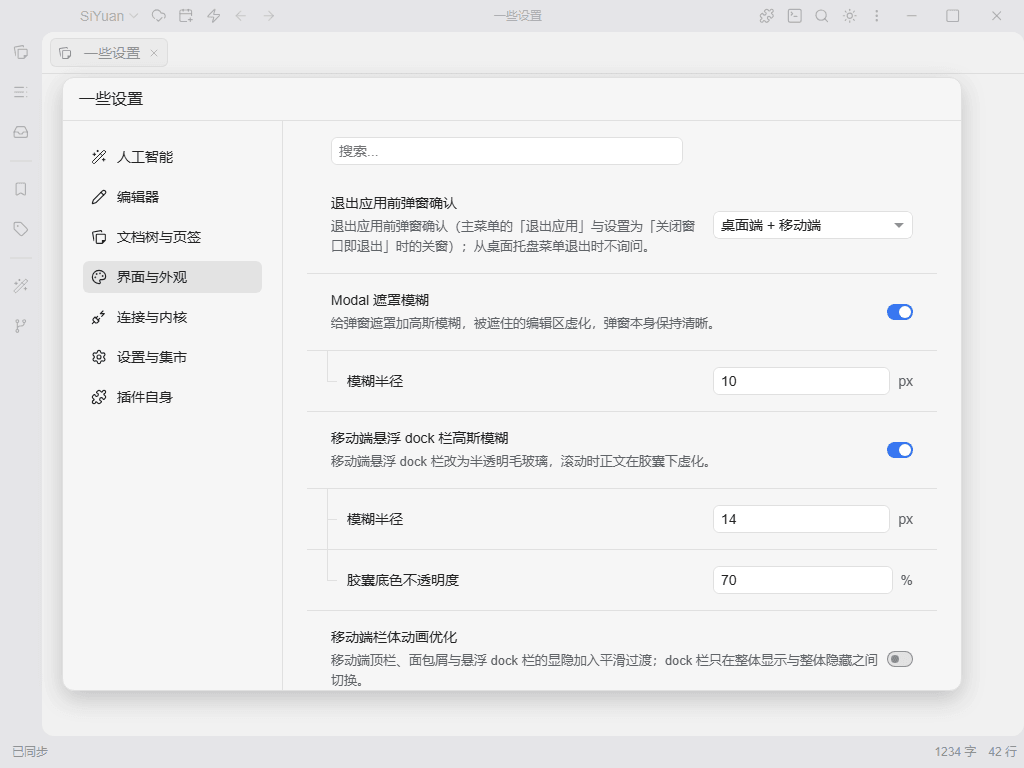
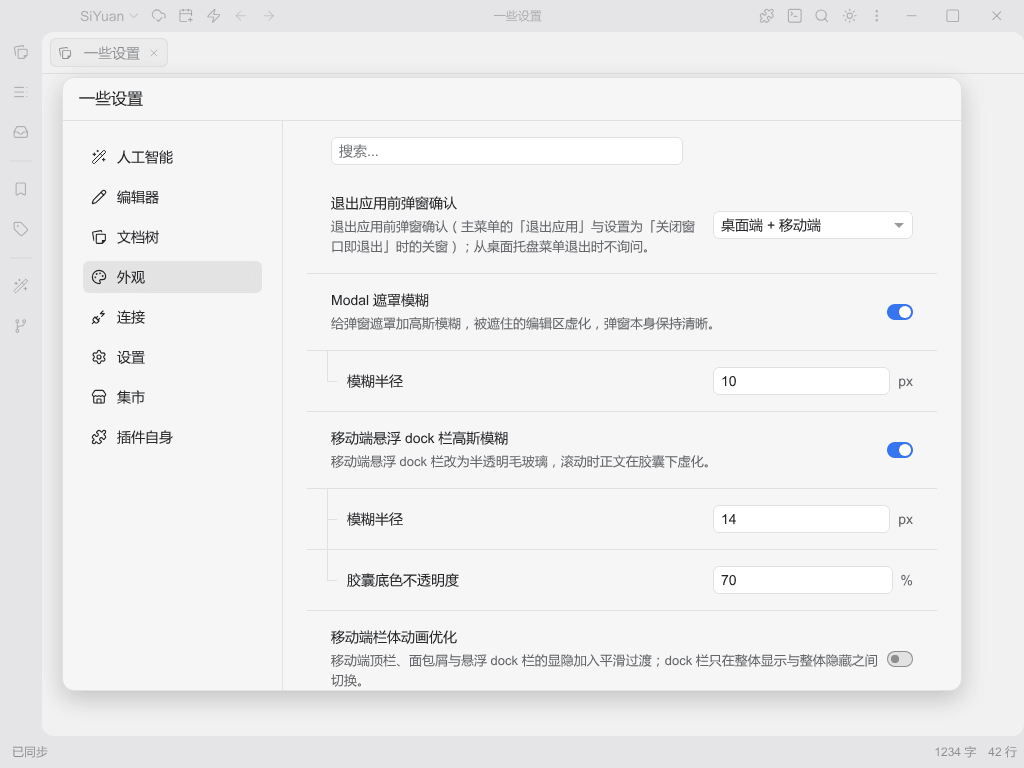
docs(preview): redraw the preview for the eight category tabs (#128)
The settings panel now has eight tabs (marketplace split out of settings), so
rebuild the preview page to match it.

- Rename the preview tabs to the new short labels and add the marketplace tab
  with the built-in `iconBazaar` symbol.
- Update the search group title and the tab-count comments to match.
- Re-render `preview.png` with the Windows font stack (Arial plus Microsoft
  YaHei, hinting off so glyph advances stay fractional): without it the text
  falls back to DejaVu Sans and Noto Sans CJK and wraps at different points.

diff --git a/assets/preview.html b/assets/preview.html
@@ -643,7 +643,7 @@ body {
     z-index: 2;
     flex-shrink: 0;
     background-color: var(--b3-theme-surface);
-    /* 页签按原生功能区划分后有七个，一屏放不下：整条可以左右滑动，
+    /* 页签按原生功能区划分后有八个，一屏放不下：整条可以左右滑动，
        每一项按内容给宽度（flex: 0 0 auto），不做等分也不换行。
        刻意不加 scroll-snap：吸附会在每一项上顿一下，手指的惯性被打断，滑起来是「一格一格」的黏感；
        页签本来就短，靠惯性滑到看得见的位置比被吸附到整项更顺手。 */
@@ -1270,6 +1270,9 @@ body {
         <symbol id="iconPlugZap" viewBox="0 0 24 24" fill="none" stroke="currentColor" stroke-width="1.7" stroke-linecap="round" stroke-linejoin="round">
             <path d="M6.3 20.3a2.4 2.4 0 0 0 3.4 0L12 18l-6-6-2.3 2.3a2.4 2.4 0 0 0 0 3.4Z"/><path d="m2 22 3-3"/><path d="M7.5 13.5 10 11"/><path d="M10.5 16.5 13 14"/><path d="m18 3-4 4h6l-4 4"/>
           </symbol>
+        <symbol id="iconBazaar" viewBox="0 0 24 24" fill="none" stroke="currentColor" stroke-width="1.7" stroke-linecap="round" stroke-linejoin="round">
+            <path d="M15 21v-5a1 1 0 0 0-1-1h-4a1 1 0 0 0-1 1v5"/><path d="M17.774 10.31a1.12 1.12 0 0 0-1.549 0 2.5 2.5 0 0 1-3.451 0 1.12 1.12 0 0 0-1.548 0 2.5 2.5 0 0 1-3.452 0 1.12 1.12 0 0 0-1.549 0 2.5 2.5 0 0 1-3.77-3.248l2.889-4.184A2 2 0 0 1 7 2h10a2 2 0 0 1 1.653.873l2.895 4.192a2.5 2.5 0 0 1-3.774 3.244"/><path d="M4 10.95V19a2 2 0 0 0 2 2h12a2 2 0 0 0 2-2v-8.05"/>
+          </symbol>
         <symbol id="iconSettings" viewBox="0 0 24 24" fill="none" stroke="currentColor" stroke-width="1.7" stroke-linecap="round" stroke-linejoin="round">
             <path d="M9.671 4.136a2.34 2.34 0 0 1 4.659 0 2.34 2.34 0 0 0 3.319 1.915 2.34 2.34 0 0 1 2.33 4.033 2.34 2.34 0 0 0 0 3.831 2.34 2.34 0 0 1-2.33 4.033 2.34 2.34 0 0 0-3.319 1.915 2.34 2.34 0 0 1-4.659 0 2.34 2.34 0 0 0-3.32-1.915 2.34 2.34 0 0 1-2.33-4.033 2.34 2.34 0 0 0 0-3.831A2.34 2.34 0 0 1 6.35 6.051a2.34 2.34 0 0 0 3.319-1.915"/><circle cx="12" cy="12" r="3"/>
           </symbol>
@@ -1354,25 +1357,31 @@ body {
                             <svg class="b3-list-item__graphic">
                                 <use xlink:href="#iconFiles"></use>
                             </svg>
-                            <span class="b3-list-item__text">文档树与页签</span>
+                            <span class="b3-list-item__text">文档树</span>
                         </li>
                         <li class="b3-list-item some-settings-panel__tab b3-list-item--focus item--focus" data-ss-tab="appearance" role="tab" tabindex="0" aria-selected="true">
                             <svg class="b3-list-item__graphic">
                                 <use xlink:href="#iconTheme"></use>
                             </svg>
-                            <span class="b3-list-item__text">界面与外观</span>
+                            <span class="b3-list-item__text">外观</span>
                         </li>
                         <li class="b3-list-item some-settings-panel__tab" data-ss-tab="connection" role="tab" tabindex="0" aria-selected="false">
                             <svg class="b3-list-item__graphic">
                                 <use xlink:href="#iconPlugZap"></use>
                             </svg>
-                            <span class="b3-list-item__text">连接与内核</span>
+                            <span class="b3-list-item__text">连接</span>
                         </li>
                         <li class="b3-list-item some-settings-panel__tab" data-ss-tab="settings" role="tab" tabindex="0" aria-selected="false">
                             <svg class="b3-list-item__graphic">
                                 <use xlink:href="#iconSettings"></use>
                             </svg>
-                            <span class="b3-list-item__text">设置与集市</span>
+                            <span class="b3-list-item__text">设置</span>
+                        </li>
+                        <li class="b3-list-item some-settings-panel__tab" data-ss-tab="bazaar" role="tab" tabindex="0" aria-selected="false">
+                            <svg class="b3-list-item__graphic">
+                                <use xlink:href="#iconBazaar"></use>
+                            </svg>
+                            <span class="b3-list-item__text">集市</span>
                         </li>
                         <li class="b3-list-item some-settings-panel__tab" data-ss-tab="plugin" role="tab" tabindex="0" aria-selected="false">
                             <svg class="b3-list-item__graphic">
@@ -1396,7 +1405,7 @@ body {
                     <div class="some-settings-panel__panes">
                         <div class="some-settings-panel__view" data-ss-tab-panel="appearance" role="tabpanel">
                             <div class="config-items">
-                                <div class="some-settings-panel__group fn__none" data-ss-search-group="appearance">界面与外观</div>
+                                <div class="some-settings-panel__group fn__none" data-ss-search-group="appearance">外观</div>
                                 <div class="fn__flex b3-label config-item some-settings-panel__sub" data-ss-feature="exit-confirm" data-ss-row="exit-confirm::scope">
                                     <div class="fn__flex-1 config-item__main">退出应用前弹窗确认
                                         <div class="b3-label__text">退出应用前弹窗确认（主菜单的「退出应用」与设置为「关闭窗口即退出」时的关窗）；从桌面托盘菜单退出时不询问。</div>

diff --git a/src/core/setting-dialog.ts b/src/core/setting-dialog.ts
@@ -1064,7 +1064,7 @@ export class SettingsPanel {
     /**
      * 把页签滚到看得见的位置：恢复上次的页签时，选中的那一项往往还在屏幕外。
      *
-     * 移动端的页签栏是一整条横向滚动区（七个分类一屏放不下），一打开总是停在最左边；
+     * 移动端的页签栏是一整条横向滚动区（八个分类一屏放不下），一打开总是停在最左边；
      * 桌面端左侧列表也会纵向滚。类名换到第 4、5 个页签上，用户看到的却还是开头那几个，
      * 于是「记住了页签」看起来等于没记住 —— 所以切页之后要把它滚出来。
      *

diff --git a/src/core/ui.ts b/src/core/ui.ts
@@ -534,7 +534,7 @@ export const PANEL_CSS = `
     z-index: 2;
     flex-shrink: 0;
     background-color: var(--b3-theme-surface);
-    /* 页签按原生功能区划分后有七个，一屏放不下：整条可以左右滑动，
+    /* 页签按原生功能区划分后有八个，一屏放不下：整条可以左右滑动，
        每一项按内容给宽度（flex: 0 0 auto），不做等分也不换行。
        刻意不加 scroll-snap：吸附会在每一项上顿一下，手指的惯性被打断，滑起来是「一格一格」的黏感；
        页签本来就短，靠惯性滑到看得见的位置比被吸附到整项更顺手。 */
